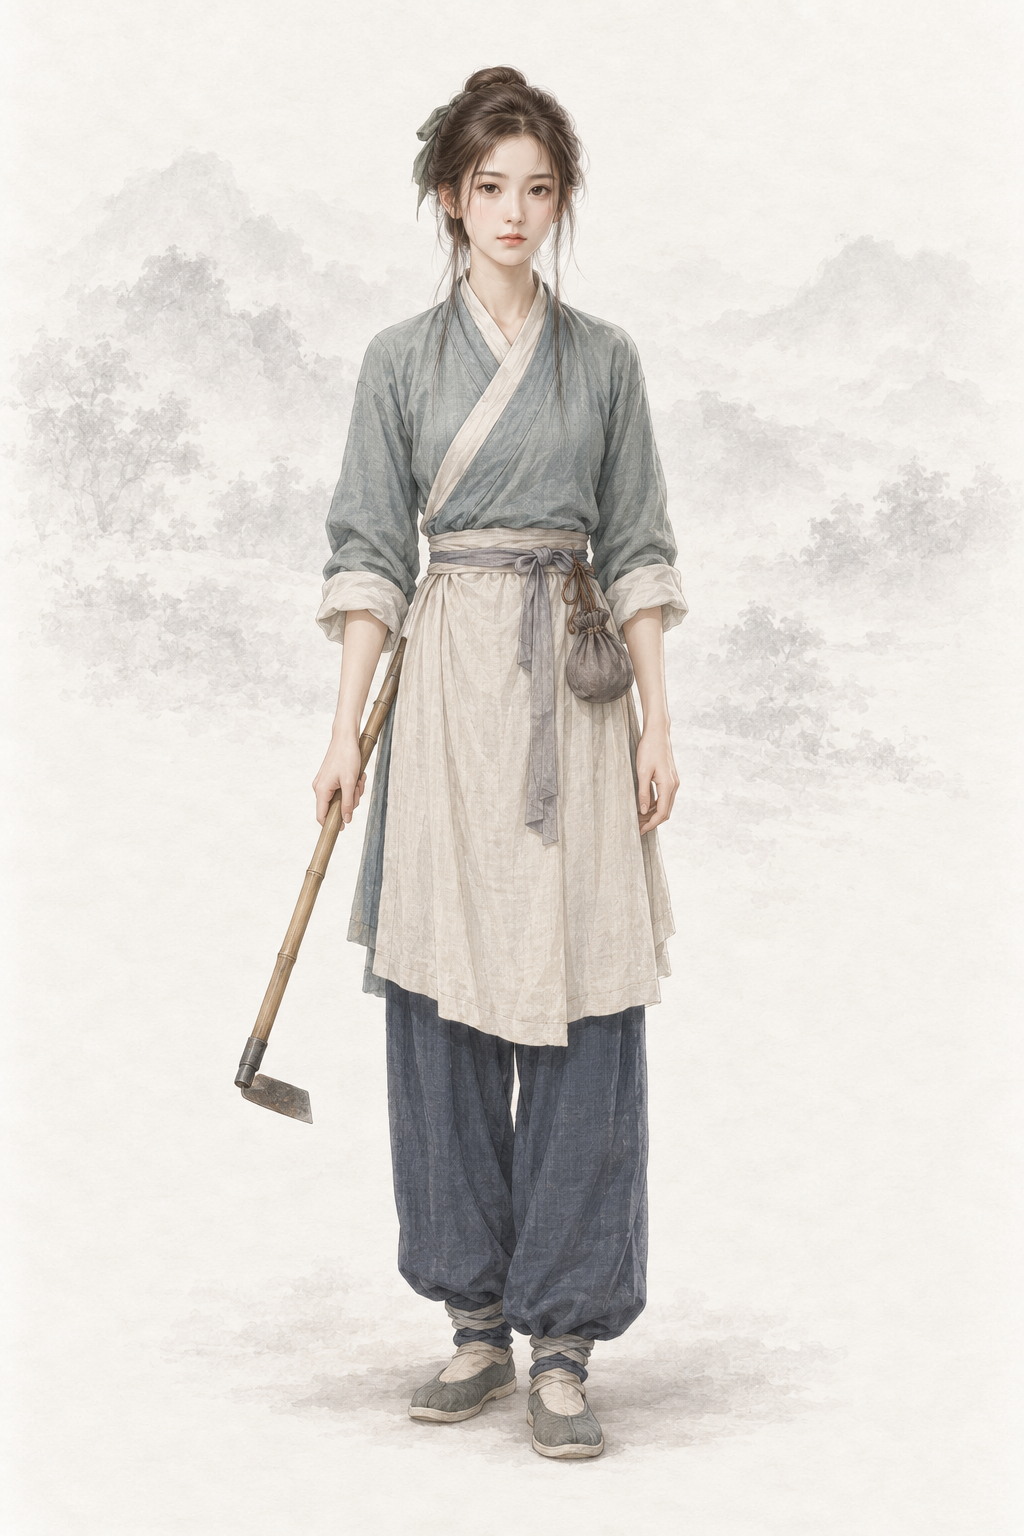
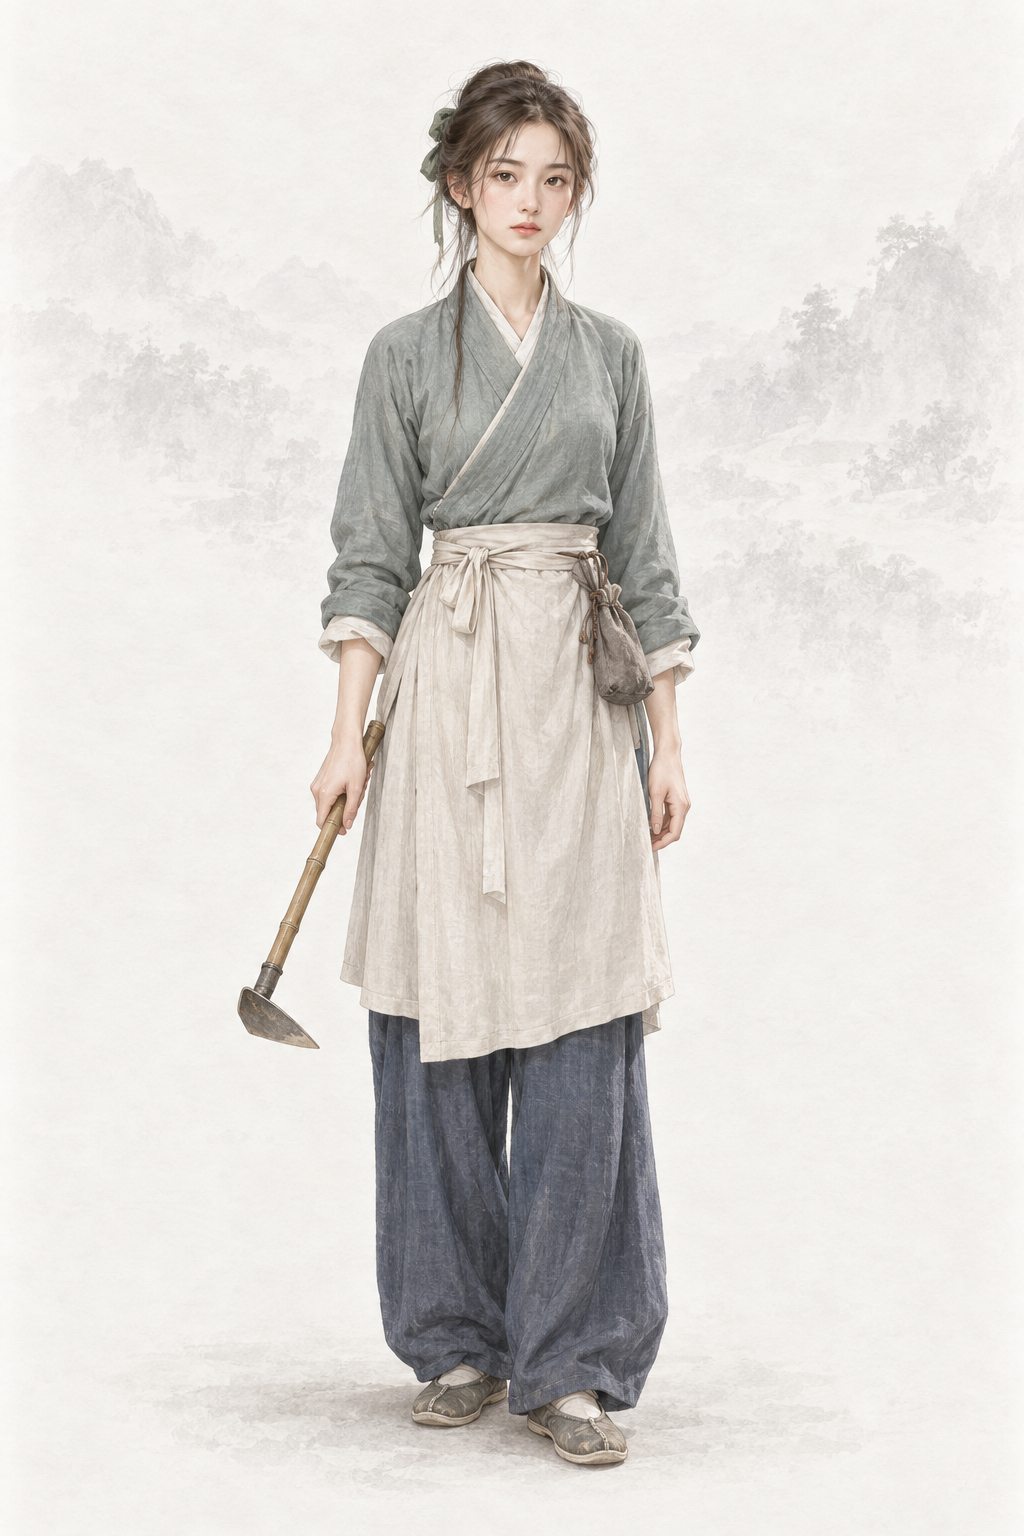
assets(character): por_npc_chenglinsu__ch13_youth_alive_base 程灵素（codex · AR-32 主要角色重出，本机无剧照：文字 + 基线）
本机无剧照，文字 + 基线；提示词写回「## Gemini 提示词」，上一版留作历史，frontmatter 加 classic_ref。

diff --git a/assets/default/prompts/characters/ch13-feihu/npc_chenglinsu.md b/assets/default/prompts/characters/ch13-feihu/npc_chenglinsu.md
@@ -15,15 +15,40 @@ references:
   use: 第二输入只提供背景的暖浅灰纸、远山淡墨与留白；完全忽略画中女性，包括脸、身形、衣服、发型、饰物、姿势和人物绘制比例。不得把背景样图的面容或白色纱裙移植给程灵素。
 status: redo
 redo_reason: "（10-02 作者补充：不要太丑，要高级感的素颜清秀）现图是白皙乌发的标准美女，与原著「容貌平平、肌肤枯黄、脸有菜色、头发又黄又稀、双肩如削、身材瘦小，唯有一双眼睛明亮之极」完全相反；重画为瘦小但成年的朴素女子。"
-reference_upload:
-- assets/default/baseline/character/female/ref_npc_wangyuyan__ch01_base01.png
 realism_revision: user_identity_face_rebuild_20261001
 codex_prompt_rev: 2026-10-02
+classic_ref:
+  version: "无剧照（本机没有1991 年台视《雪山飞狐》（含飞狐外传情节）里该角色的剧照，经典造型用文字描写）"
+  stills: []
+  note: "本机没有该角色的经典版剧照，只用文字和两张同性别基线出图（AR-32）"
+reference_upload:
+- assets/default/baseline/character/female/ref_npc_wangyuyan__ch01_base01.png
+- assets/default/baseline/character/female/ref_npc_xiaolongnv__ch03_base01.png
 ---
 
 # 程灵素 · 人物写实修正
 
 ## Gemini 提示词
+
+> 2026-10-02 AR-32 经典剧照重出（6 号出图员，codex exec · image_gen 出图）：本机没有该角色剧照：只上传两张同性别基线，经典造型用文字描写。剧照只借鉴发型、服饰、配色、标志道具、气质与面部特征，重新绘制成项目画风，不照搬照片的构图、光影和姿势；人物一律成年。提示词里不写演员名。上一版提示词保留在下一节作历史。
+
+```text
+生成一张 2:3 竖幅全身人物立绘：单人、单一视角、完整全身——头顶、双手、双脚和手中器物的两端都在画面内，四周留出自然空白；人物站姿自然，身体基本朝向正面，头部端正（不歪头、不仰不俯），镜头平视。
+【参考图】随提示词上传的两张参考图是本项目画风基线：画风、用色、光线、质感和暖浅灰纸底加淡水墨背景以它们为准；只取画风，不取长相。
+【画风】写实手绘古风人物插画，与本项目写实武侠角色立绘同一画风，像功力深厚的画师用细腻笔触画出的真实美人。手绘插画质感，不是 CG 渲染：不要过度光滑的皮肤、完美对称的五官、塑料高光、过度锐利的发丝；保留自然的笔触和细微不完美。肌肤细腻自然，看得见极细的肤理和自然的左右不对称，不磨皮、不油亮、不打粉；头发是一缕缕自然的发丝和少量碎发；布料看得出经纬纹理、厚薄和自然垂坠的褶皱，干净完整；整体设色低饱和、雅致；柔和的自然光从左上方照来，明暗过渡自然，不打舞台光、轮廓光或美颜柔光。不是照片，不是三维渲染，不是动漫或游戏 CG，也不是油画（没有厚涂笔触和画布纹理）。
+【背景】不透明的暖浅灰色纸底，只在远处有极淡的水墨远山和薄雾，大面积留白；人物与背景明暗分明、轮廓边缘干净完整（后续要自动抠图），水墨和纸纹只在背景里，不侵入人物和衣服；脚下只有很淡的一点接触阴影。
+【人物】程灵素，金庸《飞狐外传》的女主角，毒手药王的关门弟子，住在药王庄、种花用药的村女，和胡斐初识之后。
+【年龄与体态】二十岁上下的成年女子：身材瘦小单薄，双肩窄而斜削，但五官和身体都是成年人的比例（约七头身），不是孩子。衣着完整端庄。
+【气质定位】不是艳丽的标准美女，而是清冷素净、有书卷气和高级感的女子——越看越有味道，像一株安静的兰草；聪慧、沉静、有主见（作者：别画丑，要高级一些）。
+【面容】清瘦小巧的脸，骨相清秀，颧骨微显，下巴小巧；肤色是偏暖的浅麦色，不施脂粉，干净有光泽，不是病容；眉毛淡而细长，鼻子小巧挺秀，嘴唇薄、颜色淡；一双眼睛明亮之极，眼珠漆黑、黑白分明，抬眼一看时精光四射——眼睛不必画得特别大，但要是全脸最亮、最有神的地方。神情安静、聪慧、温柔里带着倔强。
+【发式】发色偏浅、带一点黄褐，发量不多但柔顺整洁，在脑后挽成一个小小的低髻，用一条洗旧的绿色布带扎住，额边几缕细软的碎发。
+【服饰】洗得发白的青布短衫，交领右衽（穿着者左襟压右襟），深蓝布裤，腰上系一条旧布围裙，脚穿布鞋；朴素的村女打扮，衣服干净平整、剪裁合身，配色素雅（青、靛、米白），朴素里见讲究。
+【道具与姿态】右手提一把小小的竹柄花锄；腰间挂一只灰褐色小布药囊。不拿兵器。安静地站着，微微抬眼望向前方，眼神清亮、聪明、温柔里带着倔强。
+【不要】画面里不要任何文字、题款、印章、签名、水印、台标、边框、分格或多视图；不要第二个人；不要幼态（童颜、娃娃脸、婴儿肥、儿童或少年身材、大头小身）；不要塑料感皮肤、磨皮美颜、网红脸（尖下巴大眼高鼻的模板脸）、过度对称、浓妆、偶像式打光、蜡像感；不要照片质感、三维渲染或动漫大眼；不要歪头、斜镜头；不要多指、缺指（设定的伤残除外）、手与器物粘连或悬空；汉式交领必须右衽（穿着者的左襟压在右襟上），不要左衽（设定为少数民族服制的除外），不要水平镜像；不要现代物品、日式服饰或日本刀、发光特效、法阵或能量光。不要浓妆、性感化或暴露的衣着；不要白皙皮肤配乌黑浓密秀发的甜美标准美女脸；也不要丑化、菜色病容、枯槁憔悴、蓬头垢面；不要丰满身材；不要病危、毒斑、死亡的样子；不要蜡烛和毒雾。
+【画风基线】随提示词上传的参考图里，最后两张是本项目的立绘画风基线：只参考它们的画风、用色、光线、质感和暖浅灰纸底加淡水墨的背景处理，整体画风必须与它们一致——精细写实的数字手绘插画，不是油画，不要厚涂笔触和画布纹理。基线图只取画风，不取长相：不要照搬基线图里人物的长相、年龄、发型、服饰和姿势。
+```
+
+## 上一版 Gemini 提示词（2026-10-02 文字版；AR-32 经典剧照重出前，历史，不再用于出图）
 
 > 2026-10-02 AR-31 改写（1 号出图员，codex exec · image_gen 出图）：重要人物借鉴经典影视造型，只写成文字——不写演员名、不上传剧照、原创面孔；主角和美人画得好看，去 AI 味，禁止幼态。出图时上传两张同性别基线立绘作画风参考（放在最后）。审核组原稿保留在下一节作历史。
 
